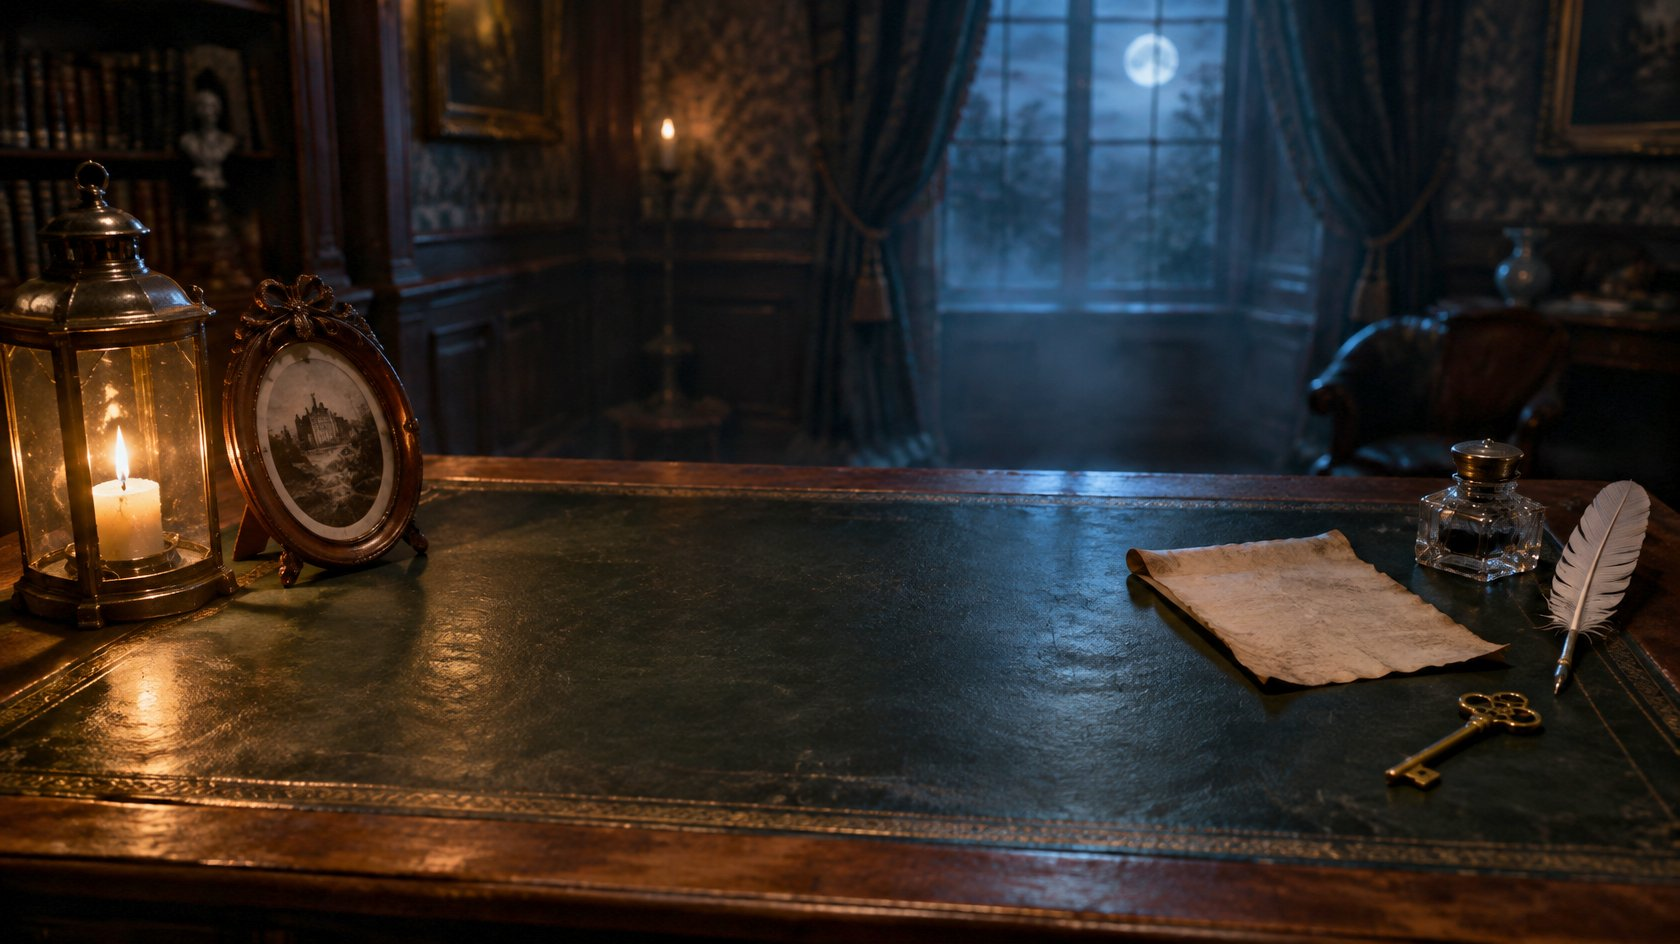
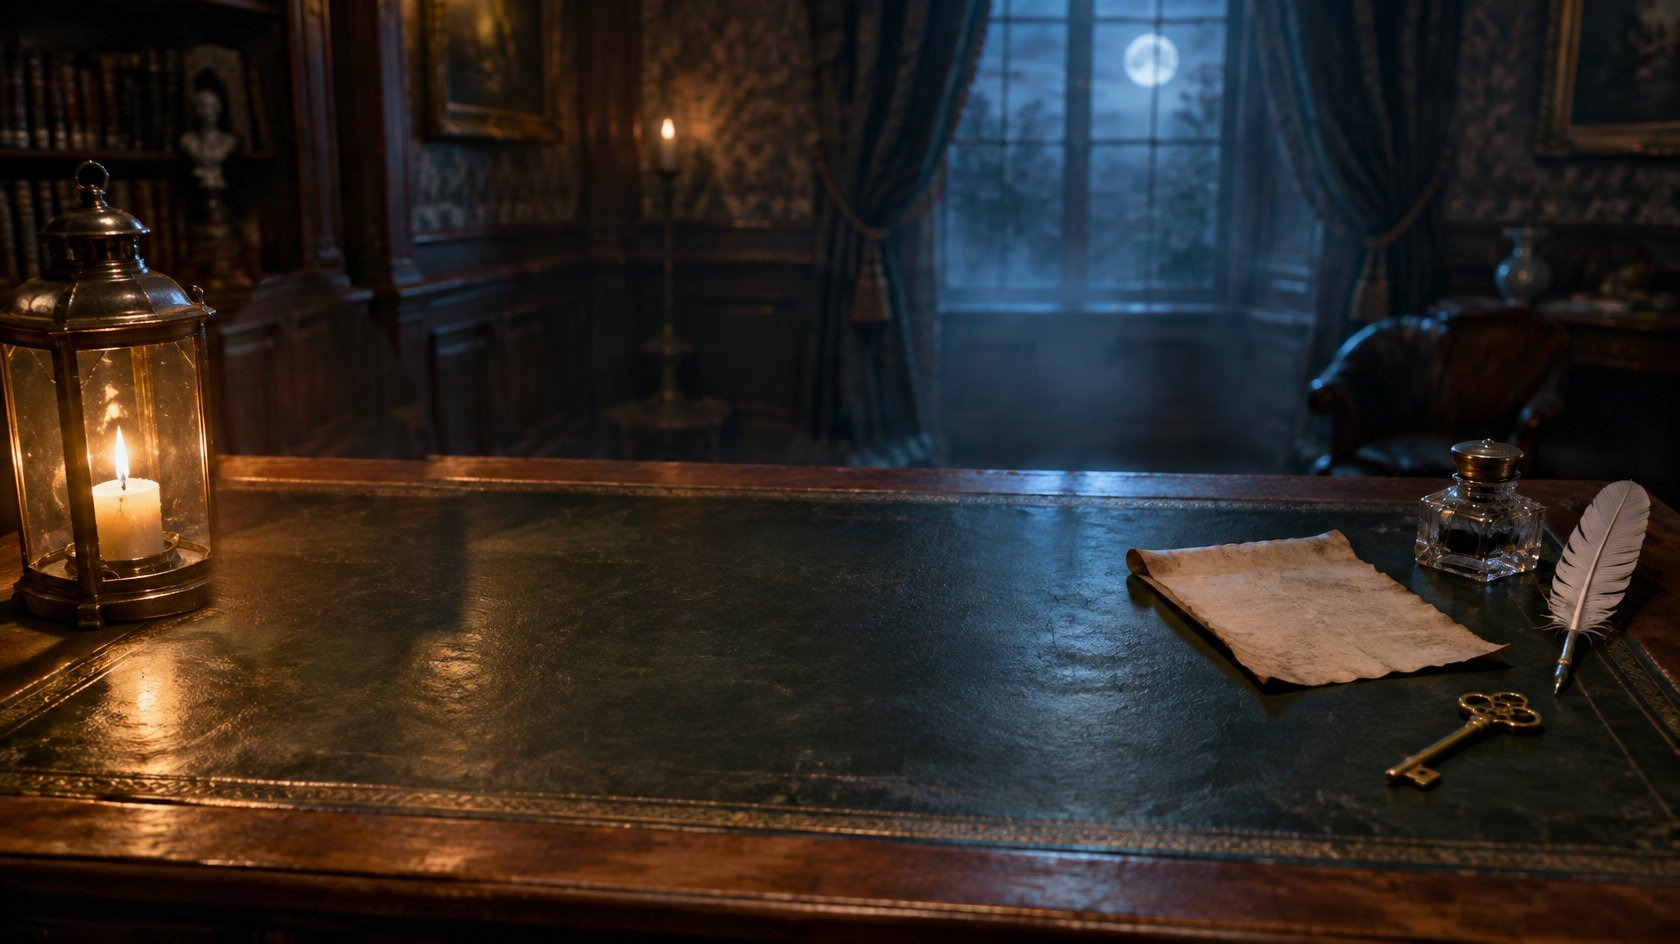
Déplacer le portrait, ajouter la plaque Contact et animer le regard vers la bibliothèque
Le cadre ovale est découpé du décor et reposé au fond du bureau, la photo
passe derrière son ouverture. La rotation en cube devient un panoramique avec
flou de bougé et un rideau au premier plan qui cache la jointure. La
bibliothèque tient en hauteur sur les écrans larges.

Changed region(s): [[0.1238, 0.2765, 0.2786, 0.7066]]

diff --git a/site/css/style.css b/site/css/style.css
@@ -49,18 +49,43 @@ h1, h2, h3, p { margin: 0; }
 .menu a { display: inline-flex; align-items: center; min-height: 44px; text-decoration: none; }
 .menu a:hover, .apropos a:hover { color: var(--flamme); }
 
-/* ---------- La caméra et les deux vues ---------- */
-.camera { position: relative; height: 100vh; height: 100svh; min-height: 520px; overflow: hidden; container-type: size; perspective: var(--P, 1200px); background: var(--nuit); }
-.piece { position: absolute; inset: 0; transform-style: preserve-3d; transform-origin: 50% 50% var(--P, 1200px); transition: transform 1.7s cubic-bezier(.62, 0, .22, 1); }
-.camera.vue-biblio .piece { transform: rotateY(calc(var(--angle, 64deg) * -1)); }
-.vue { position: absolute; inset: 0; overflow: hidden; backface-visibility: hidden; -webkit-backface-visibility: hidden; transition: filter 1.7s ease; }
-.vue--biblio { transform-origin: 50% 50% var(--P, 1200px); transform: rotateY(var(--angle, 64deg)); }
-.camera.tourne .vue { filter: brightness(.8); }
-/* Au repos, la vue active est remise à plat : même image, mais les clics passent sans calcul 3D. */
-.camera:not(.vue-biblio):not(.tourne) .vue--biblio { visibility: hidden; }
-.camera.pose-biblio .piece { transition: none; transform: none; }
-.camera.pose-biblio .vue--biblio { transform: none; }
-.camera.pose-biblio .vue--bureau { visibility: hidden; }
+/* ---------- La caméra et les deux vues ----------
+   Les deux murs sont posés côte à côte, la bibliothèque à gauche du bureau. Tourner la tête,
+   c'est faire glisser la pièce d'un écran vers la droite, avec ce qu'un vrai regard ajoute :
+   le flou de bougé, un léger mouvement de tête, et le rideau au premier plan qui passe plus vite
+   que le fond (parallaxe) et cache la jointure entre les deux photos. */
+.camera { position: relative; height: 100vh; height: 100svh; min-height: 520px; overflow: hidden; container-type: size; background: var(--nuit); --duree: 2.3s; --regard: cubic-bezier(.55, 0, .3, 1); }
+.piece { position: absolute; inset: 0; transition: transform var(--duree) var(--regard); }
+.camera.vue-biblio .piece { transform: translateX(100%); }
+.vue { position: absolute; inset: 0; overflow: hidden; }
+.vue--biblio { transform: translateX(-100%); }
+.camera.tourne .piece { animation: regard var(--duree) ease-in-out; }
+@keyframes regard {
+  0%, 100% { scale: 1; translate: 0 0; filter: none; }
+  25% { filter: blur(1.5px) brightness(.88); }
+  50% { scale: 1.045; translate: 0 -1.1%; filter: blur(3px) brightness(.8); }
+  75% { filter: blur(1.5px) brightness(.88); }
+}
+/* Au repos, seul le mur regardé existe pour la souris et le clavier. */
+.camera:not(.vue-biblio):not(.tourne) .vue--biblio,
+.camera.vue-biblio:not(.tourne) .vue--bureau { visibility: hidden; }
+.camera.sans-transition .piece, .camera.sans-transition .rideau { transition: none; }
+
+/* Le rideau : centré sur la jointure, il glisse 1,35 fois plus vite que la pièce. */
+.rideau {
+  position: absolute; top: -6%; bottom: -6%; left: calc(-19.5cqw); width: 39cqw; pointer-events: none; visibility: hidden;
+  transform: translateX(-17.5cqw); transition: transform var(--duree) var(--regard);
+  background:
+    linear-gradient(180deg, rgba(0, 0, 0, .8), rgba(0, 0, 0, 0) 25%, rgba(0, 0, 0, 0) 65%, rgba(0, 0, 0, .85)),
+    linear-gradient(90deg, rgba(120, 150, 200, .1), rgba(120, 150, 200, 0) 35%, rgba(255, 170, 90, 0) 60%, rgba(255, 170, 90, .14)),
+    repeating-linear-gradient(90deg, rgba(0, 0, 0, 0) 0, rgba(0, 0, 0, .55) 1.3cqw, rgba(0, 0, 0, 0) 3.1cqw),
+    repeating-linear-gradient(90deg, #08100E 0, #15211D 2.2cqw, #22322C 3cqw, #101A17 4.1cqw, #070C0B 5.3cqw);
+  -webkit-mask-image: linear-gradient(90deg, transparent, #000 8%, #000 92%, transparent);
+  mask-image: linear-gradient(90deg, transparent, #000 8%, #000 92%, transparent);
+  filter: blur(9px); /* au premier plan, hors de la mise au point */
+}
+.camera.tourne .rideau { visibility: visible; }
+.camera.vue-biblio .rideau { transform: translateX(17.5cqw); }
 
 /* Le décor garde les proportions de l'image et couvre l'écran ; --k convertit les pixels de l'image. */
 .decor {
@@ -69,6 +94,13 @@ h1, h2, h3, p { margin: 0; }
   transform: translate(calc(-100% * var(--fx)), -50%) translate(calc(var(--px, 0) * -8px), calc(var(--py, 0) * -5px)) scale(1.02);
 }
 .decor__fond { position: absolute; inset: 0; width: 100%; height: 100%; max-width: none; }
+/* La bibliothèque doit tenir en hauteur, du haut des livres à la plaque du bas (lignes 50 à 894 de l'image) :
+   sur un écran très large, on la cale sur la hauteur et on prolonge les côtés d'un reflet flou du décor. */
+.vue--biblio .decor { --k: calc(min(max(100cqw, 177.966cqh), 195cqh) / 1680); }
+@container (min-aspect-ratio: 195 / 100) {
+  .vue--biblio::before { content: ""; position: absolute; inset: -40px; background: url("../img/decor-bibliotheque.jpg") center / cover; filter: blur(16px) brightness(.45); }
+  .vue--biblio .decor { -webkit-mask-image: linear-gradient(90deg, transparent, #000 6%, #000 94%, transparent); mask-image: linear-gradient(90deg, transparent, #000 6%, #000 94%, transparent); }
+}
 
 .lueur { position: absolute; border-radius: 50%; pointer-events: none; mix-blend-mode: screen; transform: translate(-50%, -50%); }
 .lueur--lanterne { left: calc(122 * var(--k)); top: calc(452 * var(--k)); width: calc(560 * var(--k)); height: calc(560 * var(--k)); background: radial-gradient(circle, rgba(255, 175, 85, .28), rgba(255, 150, 60, .1) 35%, rgba(255, 140, 50, 0) 70%); animation: vacille 3.4s ease-in-out infinite; }
@@ -88,20 +120,48 @@ h1, h2, h3, p { margin: 0; }
 }
 
 /* ---------- Le portrait dans le cadre ovale ---------- */
+/* Le cadre est découpé de la photo d'origine (226 × 338) et reposé au fond du bureau, réduit à 85 %
+   parce qu'il est plus loin. La photo de Laurent passe derrière son ouverture ovale. */
 .portrait {
-  position: absolute; left: calc(262 * var(--k)); top: calc(357 * var(--k)); width: calc(121 * var(--k)); height: calc(169 * var(--k));
-  border-radius: 50%; overflow: hidden; transform: rotate(-5deg); display: block;
-  box-shadow: inset 0 0 calc(8 * var(--k)) rgba(0, 0, 0, .7);
+  position: absolute; left: calc(910 * var(--k)); top: calc(227 * var(--k)); width: calc(192 * var(--k)); height: calc(287 * var(--k)); display: block;
 }
-.portrait img { width: 100%; height: 100%; max-width: none; object-fit: cover; object-position: 50% 22%; filter: grayscale(1) sepia(.85) contrast(.92) brightness(.46) blur(.35px); transition: filter .5s ease; }
-.portrait::after { /* vignette de vieille photo, reflet du verre et lumière de la lanterne venue de gauche */
-  content: ""; position: absolute; inset: 0; border-radius: 50%; pointer-events: none;
+.portrait::before { /* ombre de contact sur le cuir */
+  content: ""; position: absolute; left: 8%; right: 4%; bottom: -3%; height: 9%; border-radius: 50%;
+  background: radial-gradient(ellipse, rgba(0, 0, 0, .75), rgba(0, 0, 0, 0) 70%);
+}
+.portrait__photo {
+  position: absolute; left: 23%; top: 28.2%; width: 54%; height: 52.6%; border-radius: 50%; overflow: hidden; transform: rotate(-8deg);
+}
+.portrait__photo img { width: 100%; height: 100%; max-width: none; object-fit: cover; object-position: 52% 18%; transform: rotate(8deg) scale(1.12); filter: grayscale(1) sepia(.8) contrast(.95) brightness(.55); transition: filter .5s ease; }
+.portrait__photo::after { /* vignette de vieille photo et reflet du verre */
+  content: ""; position: absolute; inset: 0; border-radius: 50%;
   background:
-    linear-gradient(118deg, rgba(255, 255, 255, 0) 30%, rgba(255, 255, 255, .1) 38%, rgba(255, 255, 255, 0) 46%),
-    linear-gradient(90deg, rgba(255, 170, 80, .2), rgba(255, 170, 80, 0) 55%),
-    radial-gradient(ellipse at 50% 42%, rgba(0, 0, 0, 0) 30%, rgba(20, 12, 6, .82) 100%);
+    linear-gradient(118deg, rgba(255, 255, 255, 0) 30%, rgba(220, 230, 255, .1) 38%, rgba(255, 255, 255, 0) 46%),
+    radial-gradient(ellipse at 50% 45%, rgba(0, 0, 0, 0) 45%, rgba(20, 12, 6, .7) 100%);
 }
-.portrait:hover img, .portrait:focus-visible img { filter: grayscale(1) sepia(.85) contrast(.95) brightness(.62) blur(.35px); }
+.portrait__cadre { position: absolute; inset: 0; width: 100%; height: 100%; max-width: none; filter: brightness(.82) saturate(.9); transition: filter .5s ease; }
+.portrait:hover .portrait__photo img, .portrait:focus-visible .portrait__photo img { filter: grayscale(1) sepia(.8) contrast(.98) brightness(.72); }
+.portrait:hover .portrait__cadre, .portrait:focus-visible .portrait__cadre { filter: brightness(.95) saturate(.95); }
+
+/* ---------- La plaque « Contact », comme une plaque de bureau en laiton sur son socle ---------- */
+.plaque { position: absolute; left: calc(1150 * var(--k)); top: calc(489 * var(--k)); width: calc(186 * var(--k)); height: calc(42 * var(--k)); display: block; text-decoration: none; filter: brightness(.8); transition: filter .4s ease; }
+.plaque::before { /* socle en noyer, et son ombre sur le cuir */
+  content: ""; position: absolute; left: -3%; right: -3%; bottom: 0; height: 24%;
+  background: linear-gradient(180deg, #5A3A1E, #3A2412 45%, #1E120A);
+  box-shadow: 0 calc(5 * var(--k)) calc(9 * var(--k)) rgba(0, 0, 0, .8), inset 0 1px 0 rgba(255, 200, 140, .25);
+  border-radius: 1px;
+}
+.plaque__laiton {
+  position: absolute; left: 0; right: 0; top: 0; bottom: 22%; display: flex; align-items: center; justify-content: center;
+  transform: perspective(calc(300 * var(--k))) rotateX(16deg); transform-origin: 50% 100%;
+  background: linear-gradient(180deg, #F1DCA0 0, #C9A55E 9%, #9C7A3C 40%, #7A5B28 75%, #5E4520);
+  border: 1px solid #2E2010; border-top-color: rgba(205, 220, 255, .75); /* le clair de lune accroche l'arête */
+  box-shadow: inset 0 0 0 calc(3 * var(--k)) rgba(255, 230, 170, .12), inset 0 0 0 calc(4 * var(--k)) rgba(40, 26, 10, .35);
+  font-family: var(--titre); font-weight: 400; font-size: calc(19 * var(--k)); letter-spacing: .32em; text-indent: .32em; text-transform: uppercase;
+  color: #2A1C0B; text-shadow: 0 1px 0 rgba(255, 236, 190, .4); /* lettres gravées */
+}
+.plaque:hover, .plaque:focus-visible { filter: brightness(1.05); }
+.plaque:focus-visible { outline-offset: 6px; }
 
 /* ---------- Le parchemin : la page contact ---------- */
 .parchemin { position: absolute; left: calc(1125 * var(--k)); top: calc(526 * var(--k)); width: calc(388 * var(--k)); height: calc(166 * var(--k)); display: block; text-decoration: none; }
@@ -197,6 +257,7 @@ h1, h2, h3, p { margin: 0; }
 .accueil .entete { position: absolute; z-index: 10; top: 0; left: 0; right: 0; pointer-events: none; background: linear-gradient(180deg, rgba(8, 6, 5, .65), rgba(8, 6, 5, 0)); }
 .accueil .entete a { pointer-events: auto; }
 .aide { position: absolute; z-index: 3; left: 50%; bottom: 21px; transform: translateX(-50%); white-space: nowrap; pointer-events: none; font-family: var(--etiquette); font-size: 21px; letter-spacing: .22em; text-transform: uppercase; color: #E9D9BB; text-shadow: 0 2px 8px rgba(0, 0, 0, .9); }
+.aide--biblio { left: auto; right: var(--marge); transform: none; } /* au centre, elle cacherait la plaque du bas */
 .retour {
   position: absolute; z-index: 4; left: 21px; bottom: 13px; white-space: nowrap; min-height: 44px; padding: 8px 21px; border: 1px solid rgba(241, 232, 213, .55); background: rgba(14, 10, 8, .75); color: var(--papier); cursor: pointer;
   font-family: var(--etiquette); font-size: 21px; letter-spacing: .14em; text-transform: uppercase;
@@ -279,6 +340,7 @@ h1, h2, h3, p { margin: 0; }
 }
 
 @media (prefers-reduced-motion: reduce) {
-  .piece, .vue, .tome, .book, .book img { transition: none; }
+  .piece, .rideau, .tome, .book, .book img { transition: none; }
+  .camera.tourne .piece { animation: none; }
   .lueur { animation: none; }
 }

diff --git a/site/js/scene.js b/site/js/scene.js
@@ -38,31 +38,22 @@
   var camera = document.querySelector('.camera');
   if (!camera) return;
 
-  /* ---------- La caméra : deux murs côte à côte, on tourne la tête de l'un à l'autre ---------- */
+  /* ---------- La caméra : deux murs côte à côte, on tourne la tête de l'un à l'autre ----------
+     Le mouvement lui-même est en CSS (.vue-biblio, .tourne) ; ici on ne fait que poser les classes. */
   var vueBureau = camera.querySelector('.vue--bureau');
   var vueBiblio = camera.querySelector('.vue--biblio');
   var vueActive = 'bureau';
-
-  function cadrer() {
-    var l = camera.clientWidth;
-    var P = l * 0.85;
-    var angle = 2 * Math.atan(l / 2 / P) * 180 / Math.PI; // les deux murs se touchent exactement
-    camera.style.setProperty('--P', P + 'px');
-    camera.style.setProperty('--angle', angle + 'deg');
-  }
-  cadrer();
-  window.addEventListener('resize', cadrer);
+  var minuteur = 0;
 
   function aller(vue, livre, instantane) {
     if (vue === vueActive) return;
     vueActive = vue;
-    var piece = camera.querySelector('.piece');
     vueBureau.inert = vue !== 'bureau';
     vueBiblio.inert = vue !== 'biblio';
+    clearTimeout(minuteur);
     var arrivee = function () {
       camera.classList.remove('tourne');
       if (vue === 'biblio') {
-        camera.classList.add('pose-biblio');
         var cible = livre && vueBiblio.querySelector('.book[data-livre="' + livre + '"]');
         if (cible) {
           cible.focus({ preventScroll: true });
@@ -76,21 +67,18 @@
       }
     };
     if (instantane || moinsDeMouvement) {
+      camera.classList.add('sans-transition');
       camera.classList.toggle('vue-biblio', vue === 'biblio');
-      if (vue !== 'biblio') camera.classList.remove('pose-biblio');
+      void camera.offsetWidth;
+      camera.classList.remove('sans-transition');
       arrivee();
       return;
     }
-    if (vue === 'bureau') {
-      // on remet la bibliothèque dans sa position tournée, sans animation, avant de tourner la tête
-      piece.style.transition = 'none';
-      camera.classList.remove('pose-biblio');
-      void piece.offsetWidth;
-      piece.style.transition = '';
-    }
+    camera.classList.remove('tourne');
+    void camera.offsetWidth; // relance l'animation du regard même si on fait demi-tour en route
     camera.classList.add('tourne');
     camera.classList.toggle('vue-biblio', vue === 'biblio');
-    setTimeout(arrivee, 1750);
+    minuteur = setTimeout(arrivee, parseFloat(getComputedStyle(camera).getPropertyValue('--duree')) * 1000 + 50);
   }
   window.allerVers = aller;
 

diff --git a/site/index.html b/site/index.html
@@ -20,15 +20,20 @@
 
     <!-- Le bureau -->
     <section class="vue vue--bureau" aria-label="Le bureau de l’écrivain">
-      <div class="decor" style="--fx:.5;--mfx:.47">
+      <div class="decor" style="--fx:.5;--mfx:.495">
         <img class="decor__fond" src="img/decor-bureau.jpg" width="1680" height="944" alt="">
         <span class="lueur lueur--lanterne" aria-hidden="true"></span>
         <span class="lueur lueur--flamme" aria-hidden="true"></span>
         <span class="lueur lueur--mur" aria-hidden="true"></span>
 
-        <a class="portrait" href="a-propos.html" aria-label="À propos de Laurent Blondeau"><img src="img/portrait.jpg" width="417" height="444" alt=""></a>
+        <a class="portrait" href="a-propos.html" aria-label="À propos de Laurent Blondeau">
+          <span class="portrait__photo"><img src="img/portrait.jpg" width="417" height="444" alt=""></span>
+          <img class="portrait__cadre" src="img/cadre-ovale.png" width="226" height="338" alt="">
+        </a>
 
-        <a class="parchemin" href="a-propos.html#contact"><span class="parchemin__etiquette">Écrire à l’auteur</span></a>
+        <a class="plaque" href="a-propos.html#contact"><span class="plaque__laiton">Contact</span></a>
+
+        <a class="parchemin" href="a-propos.html#contact" tabindex="-1" aria-hidden="true"><span class="parchemin__etiquette">Écrire à l’auteur</span></a>
 
         <div class="pile">
           <span class="pile__etiquette" aria-hidden="true"></span>
@@ -217,6 +222,9 @@
       <button class="retour" type="button">Revenir au bureau</button>
       <p class="aide aide--biblio">Choisissez un livre pour l’ouvrir</p>
     </section>
+
+    <!-- Le lourd rideau entre les deux murs : il passe devant le regard pendant qu'on tourne la tête -->
+    <span class="rideau" aria-hidden="true"></span>
 
   </div>
 

diff --git a/README.md b/README.md
@@ -6,9 +6,9 @@ En ligne (préproduction, non indexée) : [laurent-blondeau-bureau.netlify.app](
 
 ## Le principe
 
-Un bureau de manoir la nuit. Sur le cuir : une lanterne, le portrait de l'auteur dans un cadre ovale, un encrier, une plume, une clé, un parchemin qui mène au contact, et la pile de ses livres. Au clic sur un livre de la pile, la vue tourne vers la gauche, vers une bibliothèque où les livres sont rangés par catégorie. Au clic sur un livre de l'étagère, il vient au centre et s'ouvre sur son résumé et son prix.
+Un bureau de manoir la nuit. Sur le cuir : une lanterne, le portrait de l'auteur dans un cadre ovale, une plaque de bureau « Contact », un parchemin, un encrier, une plume, une clé, et la pile de ses livres. Au clic sur un livre de la pile, le regard balaie la pièce vers la gauche (panoramique avec flou de bougé, un rideau passe au premier plan) et s'arrête sur une bibliothèque où les livres sont rangés par catégorie. Au clic sur un livre de l'étagère, il vient au centre et s'ouvre sur son résumé et son prix.
 
-Les deux décors sont des images générées avec Canva ; tout ce qui bouge ou se clique est posé par-dessus en HTML et CSS.
+Les deux décors sont des images générées avec Canva ; tout ce qui bouge ou se clique est posé par-dessus en HTML et CSS. Le cadre ovale a été découpé du décor du bureau (`img/cadre-ovale.png`) et reposé plus loin ; sa place d’origine a été rebouchée dans `img/decor-bureau.jpg`.
 
 ## Fichiers
 
@@ -21,7 +21,7 @@ Les deux décors sont des images générées avec Canva ; tout ce qui bouge ou s
 | `site/js/lecteur.js` | Le livre qui vient au centre et s'ouvre |
 | `site/img/`, `site/polices/` | Décors, couvertures, portrait ; polices hébergées avec le site (licence OFL) |
 
-Tout ce qui est posé sur les décors est placé en pixels de l'image (1680 × 944) multipliés par `--k`. Si un décor change, il faut reprendre ces coordonnées : portrait, parchemin, pile, lueurs des bougies, étagères (`--x`, `--y`, `--w`, `--h` de chaque `.rayon`).
+Tout ce qui est posé sur les décors est placé en pixels de l'image (1680 × 944) multipliés par `--k`. Si un décor change, il faut reprendre ces coordonnées : portrait, plaque, parchemin, pile, lueurs des bougies, étagères (`--x`, `--y`, `--w`, `--h` de chaque `.rayon`).
 
 HTML, CSS et JavaScript simples, sans framework ni étape de construction. Lancer en local : double-cliquer sur `site/index.html`.
 
